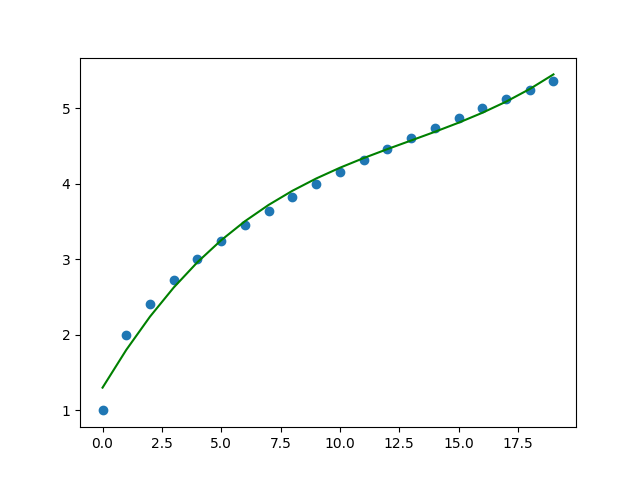
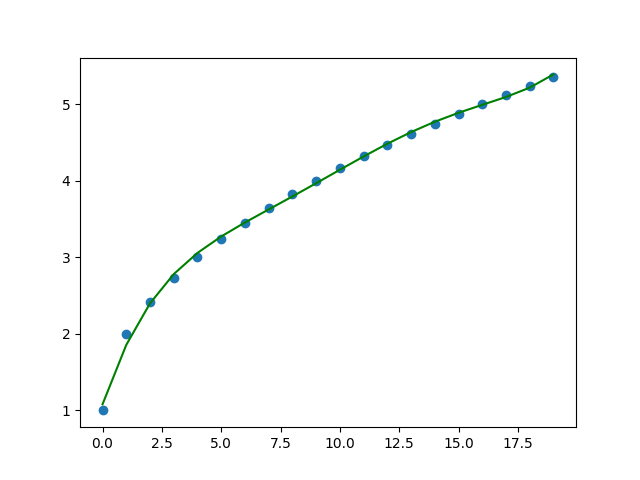
Add files via upload

diff --git a/model.py b/model.py
@@ -11,7 +11,7 @@ def is_monotonic(xmin, xmax, f, bins=20, increase=True):
     chg = sum([f(x[i]) <= f(x[i - 1]) for i in range(1, len(x))])
   return chg == len(x) - 1
 
-def find_model(x, y, maxdegree=10, method='poly', bins=20, increase=True, k=3):
+def find_model(x, y, maxdegree=10, method='poly', bins=20, increase=True):
   """
     Args:
       x: univariate array
@@ -20,28 +20,29 @@ def find_model(x, y, maxdegree=10, method='poly', bins=20, increase=True, k=3):
       method: poly or spline
       bins: number of bins for monotonic check
       increase: boolean, has x positive effect
-      k: degree for spline
   """
 
   assert method in ['poly', 'spline']
   xmin, xmax = x.min(), x.max()
+  best = {'corr': -1}
   if method == 'poly':
-    best = {'corr': -1}
-    for deg in range(1, maxdegree + 1):
-      params = np.polyfit(x, y, deg)
+    for k in range(1, maxdegree + 1):
+      params = np.polyfit(x, y, k)
       f = np.poly1d(params)
       corr = np.corrcoef(y, f(x))[0, 1]
       is_mon = is_monotonic(xmin, xmax, f, bins=bins, increase=increase)
       if corr > best['corr'] and is_mon:
-        best = {'degree': deg, 'f': f, 'corr': corr}
+        best = {'degree': k, 'f': f, 'corr': corr}
   else:
     # sort (x, y) by x
     x2 = x[np.argsort(x)]
     y2 = y[np.argsort(x)]
-    f = interpolate.UnivariateSpline(x2, y2, k=3)
-    corr = np.corrcoef(y, f(x))[0, 1]
-    best = {'degree': k, 'f': f, 'corr': corr, 'is_monotonic': 
-      is_monotonic(xmin, xmax, f, bins=bins, increase=increase)}
+    for k in range(1, 6):
+      f = interpolate.UnivariateSpline(x2, y2, k=k)
+      corr = np.corrcoef(y, f(x))[0, 1]
+      is_mon = is_monotonic(xmin, xmax, f, bins=bins, increase=increase)
+      if corr > best['corr'] and is_mon:
+        best = {'degree': k, 'f': f, 'corr': corr}
   return best
 
 def plot(x, y, f):

diff --git a/model_test.py b/model_test.py
@@ -34,7 +34,6 @@ class ModelTests(unittest.TestCase):
     plot(x, y, best['f'])
     plt.savefig('temp.png') # for the readme
     self.assertGreater(best['corr'], .99)
-    self.assertTrue(best['is_monotonic'])
 
 if __name__ == '__main__':
   unittest.main()
